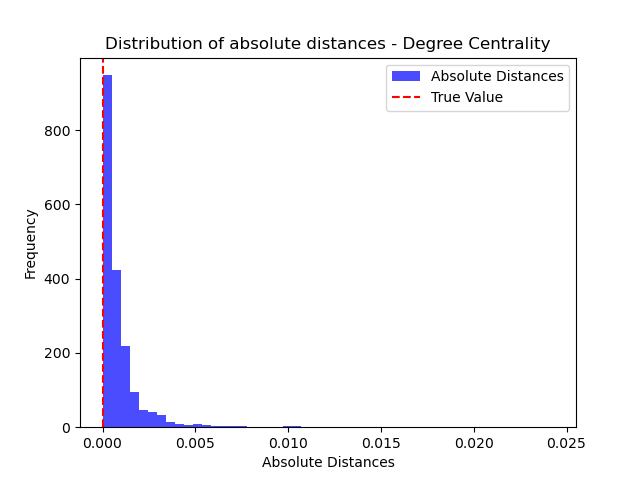
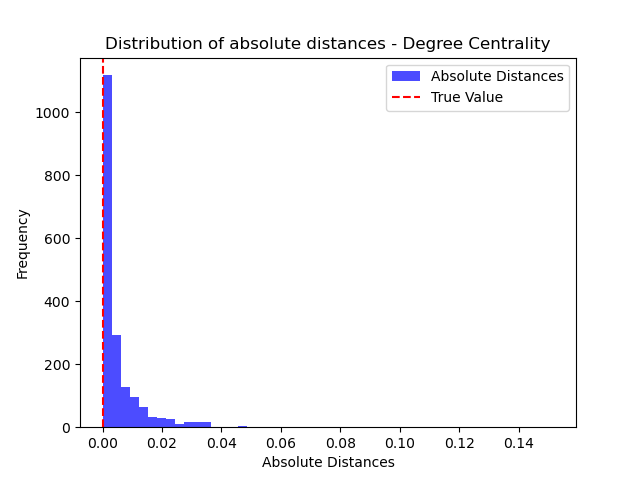
Fixed everything and should all work now please no more problems

diff --git a/ProgrammingAssignment/Read_Data.py b/ProgrammingAssignment/Read_Data.py
@@ -3,6 +3,7 @@ from typing import Any, Union
 
 import networkit as nk
 import networkit.centrality as nkc
+import numpy as np
 import torch
 import torch_geometric
 from networkit.centrality import PageRank, EigenvectorCentrality, DegreeCentrality
@@ -36,6 +37,16 @@ def path_to_data(path) -> tuple[dict[str, tuple[Data, Any]], dict[str, Any]]:
     return data_sets, running_times_networkit
 
 
+def normalize_scores(scores):
+    """
+    :param scores: list of scores
+    :return: normalized scores
+    """
+    scores = np.array(scores)
+    scores = (scores - min(scores)) / (max(scores) - min(scores))
+    return scores
+
+
 def centrality_from_network_it(graph) -> tuple[
     dict[str, Union[PageRank, EigenvectorCentrality, DegreeCentrality]], dict[str, Any]]:
     """
@@ -44,23 +55,28 @@ def centrality_from_network_it(graph) -> tuple[
     networkit
     """
     running_times = {}
-    # degree centrality
+    # degree
     start = time.perf_counter()
-    d = nkc.DegreeCentrality(graph, outDeg=True, normalized=True)
+    d = nkc.DegreeCentrality(graph, outDeg=False)
     d.run()
-    running_times["Degree Centrality"] = time.perf_counter() - start
+    running_times["Degree"] = time.perf_counter() - start
+    # normalize the scores to be between 0 and 1
+    d_scores = normalize_scores(d.scores())
     # eigenvector centrality
     start = time.perf_counter()
     e = nkc.EigenvectorCentrality(graph)
     e.run()
     running_times["Eigenvector Centrality"] = time.perf_counter() - start
-
+    # normalize the scores to be between 0 and 1
+    e_scores = normalize_scores(e.scores())
     # pagerank
     start = time.perf_counter()
     p = nkc.PageRank(graph, normalized=True)
     p.run()
     running_times["PageRank"] = time.perf_counter() - start
-    return {"Degree Centrality": d, "Eigenvector Centrality": e, "PageRank": p}, running_times
+    # normalize the scores to be between 0 and 1
+    p_scores = normalize_scores(p.scores())
+    return {"Degree": d_scores, "Eigenvector Centrality": e_scores, "PageRank": p_scores}, running_times
 
 
 def pyg_data_from_network_it(graph, measure):
@@ -73,10 +89,10 @@ def pyg_data_from_network_it(graph, measure):
     x = torch.tensor(list(range(graph.numberOfNodes())), dtype=torch.float).view(-1, 1)
     if graph.isWeighted():
         G = torch_geometric.data.Data(x=x, edge_index=indices, weight=weights,
-                                      y=torch.tensor(measure.scores(), dtype=torch.float).view(-1, 1))
+                                      y=torch.tensor(measure, dtype=torch.float).view(-1, 1))
     else:
         G = torch_geometric.data.Data(x=x, edge_index=indices,
-                                      y=torch.tensor(measure.scores(), dtype=torch.float).view(-1, 1))
+                                      y=torch.tensor(measure, dtype=torch.float).view(-1, 1))
 
     train_mask = torch.zeros(G.num_nodes, dtype=torch.bool)
     train_mask[:int(0.9 * G.num_nodes)] = 1

diff --git a/ProgrammingAssignment/main.py b/ProgrammingAssignment/main.py
@@ -1,7 +1,7 @@
 import time
 
 import torch
-from tqdm import tqdm, trange
+from tqdm import tqdm
 import pandas as pd
 from Read_Data import load_data_list
 from metrics import compute_kendall_tau, plot_approximation_ratio
@@ -24,15 +24,22 @@ if __name__ == "__main__":
                '256_3': (256, 3), '256_4': (256, 4), '256_5': (256, 5)}
 
     data_sets = load_data_list()
+
+    # default value
+    train_mask = torch.zeros(1000, dtype=torch.bool)
     for network in tqdm(data_sets):
         net = network
         network = data_sets[net][0]
         running_times_network_it = data_sets[net][1]
         running_times_nn = {}
+        """
+        keys_to_delete = ["Eigenvector Centrality", "PageRank"]
+        for key in keys_to_delete:
+            del network[key]
+        """
         for dataset in tqdm(network):
             measure = dataset
             dataset = network[measure]
-
             opt_config_dict = {"min_test_error": 100000, "best_config": None, "min_time": 100000, "final_out": None,
                                "final_train_error": None}
 
@@ -92,7 +99,7 @@ if __name__ == "__main__":
             df.loc[len(df)] = {'Network': net, 'Measure': measure,
                                'Final Train Error': opt_config_dict["final_train_error"],
                                'Min Test Error': opt_config_dict["min_test_error"],
-                               'Kendalls Tau': compute_kendall_tau(dataset[0], opt_config_dict["final_out"]),
+                               'Kendalls Tau': compute_kendall_tau(dataset[0], opt_config_dict["final_out"], ~train_mask),
                                'Best Config': opt_config_dict["best_config"],
                                'Running Time Networkit': running_times_network_it[measure],
                                'Running Time NN': running_times_nn[measure],

diff --git a/ProgrammingAssignment/metrics.py b/ProgrammingAssignment/metrics.py
@@ -40,14 +40,16 @@ def plot_approximation_ratio(data, test_out, net, measure=""):
     plt.close()
 
 
-def compute_kendall_tau(data, test_out):
+def compute_kendall_tau(data, test_out, test_mask=None):
     """
     :param data: PyTorch Geometric Data object
     :param test_out: predicted values
+    :param test_mask: mask for the test set
     Compute Kendall's tau between the true and predicted values
     """
-
+    if test_mask is None:
+        test_mask = torch.ones(data.num_nodes, dtype=torch.bool)
     # Compute Kendall's tau
-    tau, _ = kendalltau(data.y.detach(), test_out.detach())
+    tau, _ = kendalltau(data.y.detach()[test_mask], test_out.detach()[test_mask])
 
     return tau
